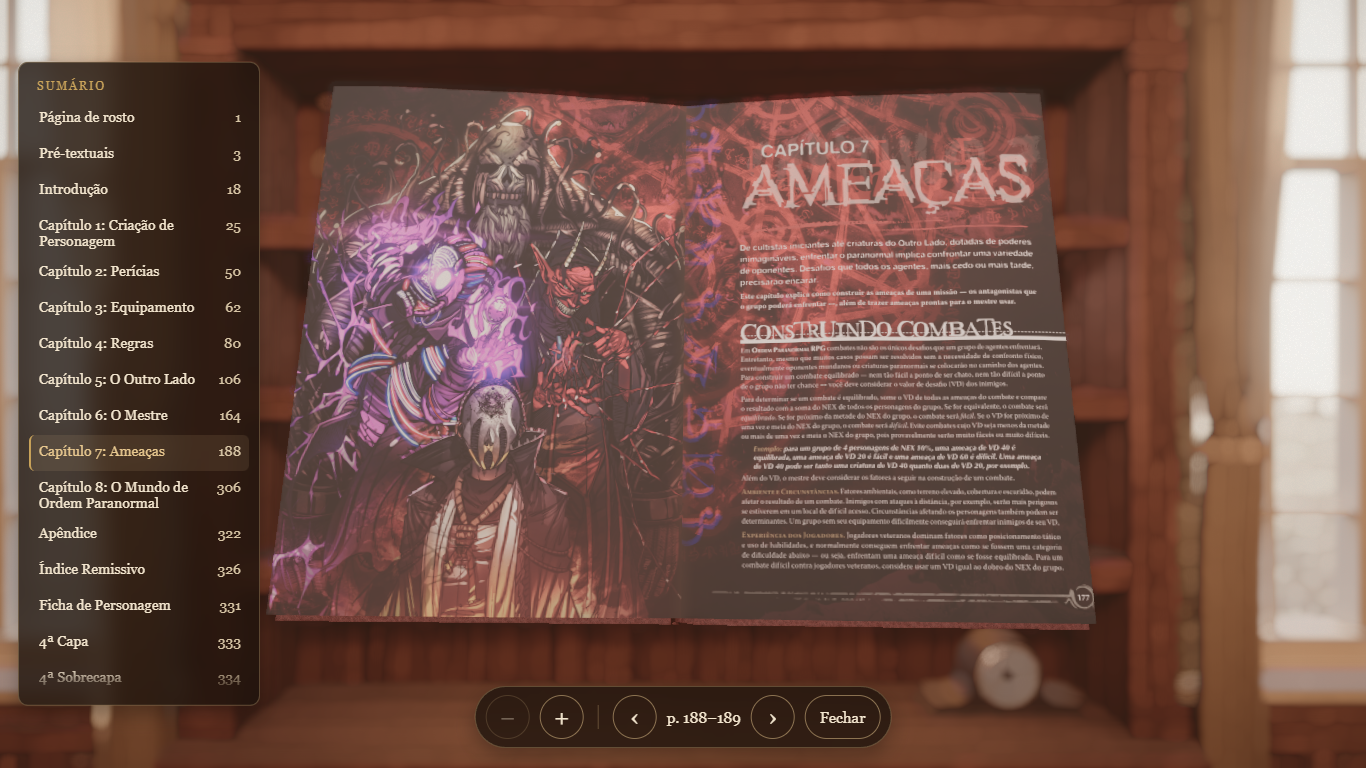
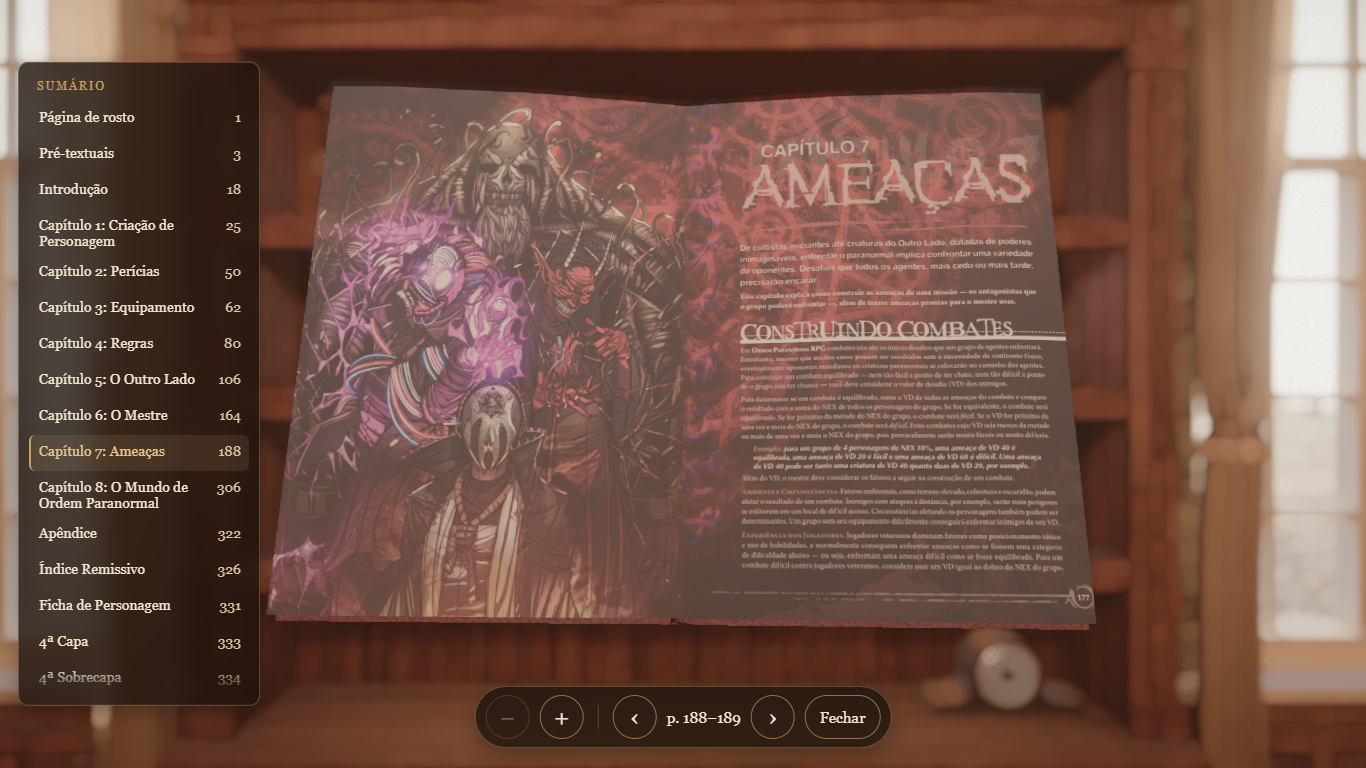
N3: um passo mais perto da estante; fac-símile diagramado impresso como tinta
- Novo nó N3 depois de N2, a ~1 m da estante, na altura de olho de N0/N1
  e olhando 6° para cima. Os livros ficam ~1,7× maiores que em N2, e ali
  também se escolhem livros.
- A página diagramada vira tinta (saturação 92%, sem preto puro) e é
  impressa no papel (multiply), em vez de brilhar como uma tela.
- Títulos de OCR em caixa alta entram no sumário com só a inicial
  maiúscula.
- Revisão do art-reviewer (F1/F2) e decisões registradas.

Changed region(s): [[0.2152, 0.25, 0.3997, 0.5938], [0.5534, 0.4062, 0.7687, 0.4688]]

diff --git a/src/book/pdf/pdfPages.ts b/src/book/pdf/pdfPages.ts
@@ -1,7 +1,7 @@
 // The printed pages of a facsimile book (facsimile.ts), drawn from the open PDF when a page texture asks for
 // them: one render at a time, the most recent request first (the page being looked at), the next pages
-// after it, and a small cache. A scan's paper is brought to white so it prints on the book's paper
-// (multiply); a laid-out page is drawn as it is.
+// after it, and a small cache. Both print on the book's paper (multiply): a scan's paper is brought to
+// white first, a laid-out page's colours to ink.
 import type { PDFDocumentProxy } from 'pdfjs-dist'
 import type { Unit } from './facsimile'
 
@@ -123,17 +123,40 @@ export class PdfPages implements PdfPageSource {
       const canvas = document.createElement('canvas')
       canvas.width = Math.max(1, Math.round((u.x1 - u.x0) * scale))
       canvas.height = Math.max(1, Math.round(px))
-      const ctx = canvas.getContext('2d', { willReadFrequently: this.whiten })!
+      const ctx = canvas.getContext('2d', { willReadFrequently: true })!
       ctx.fillStyle = '#fff'
       ctx.fillRect(0, 0, canvas.width, canvas.height)
       await page.render({ canvasContext: ctx, canvas, viewport }).promise
       if (this.whiten) whitenPaper(ctx, canvas.width, canvas.height)
+      else toInk(ctx, canvas.width, canvas.height)
       return canvas
     } finally {
       // decoded scans are large: let pdf.js drop them (a later size decodes again)
       page.cleanup()
     }
   }
+}
+
+/** the darkest ink on paper (art direction: no pure black) */
+const INK_FLOOR = [22, 18, 16]
+/** colour kept from a laid-out page: printed ink is less saturated than a screen */
+const INK_SATURATION = 0.92
+
+/**
+ * A laid-out page as printed ink: a little less saturated and no deeper than ink gets, so multiplied onto the
+ * book's paper it takes the paper's tone and the room's light instead of glowing over them like a screen.
+ */
+export function toInk(ctx: CanvasRenderingContext2D, w: number, h: number) {
+  const img = ctx.getImageData(0, 0, w, h)
+  const d = img.data
+  for (let i = 0; i < d.length; i += 4) {
+    const l = 0.299 * d[i] + 0.587 * d[i + 1] + 0.114 * d[i + 2]
+    for (let k = 0; k < 3; k++) {
+      const v = l + (d[i + k] - l) * INK_SATURATION
+      d[i + k] = INK_FLOOR[k] + (v * (255 - INK_FLOOR[k])) / 255
+    }
+  }
+  ctx.putImageData(img, 0, 0)
 }
 
 /**

diff --git a/src/book/pdf/facsimile.ts b/src/book/pdf/facsimile.ts
@@ -208,7 +208,14 @@ export function headingsToc(doc: FacsimileDoc, units: Unit[]): { title: string; 
     if (mine) out.push(mine)
   })
   const norm = (s: string) => s.toLowerCase().replace(/[^\p{L}\p{N}]+/gu, ' ').trim()
-  return out.filter((e, k) => k === 0 || norm(e.title) !== norm(out[k - 1].title)).map(({ title, unit }) => ({ title, unit }))
+  return out.filter((e, k) => k === 0 || norm(e.title) !== norm(out[k - 1].title)).map(({ title, unit }) => ({ title: sentenceCase(title), unit }))
+}
+
+/** "AULA DE 7 DE JANEIRO DE 1976" → "Aula de 7 de janeiro de 1976" (titles in capitals read as shouting in the contents) */
+export function sentenceCase(title: string) {
+  if (upperShare(title) < 0.7) return title
+  const lower = title.toLocaleLowerCase('pt-BR')
+  return lower.replace(/\p{L}/u, (c) => c.toLocaleUpperCase('pt-BR'))
 }
 
 /** a laid-out page this close to the book's proportions is cropped to fill it (full bleed); further off, it fits inside */
@@ -233,7 +240,8 @@ export function paginateFacsimile(doc: FacsimileDoc, meta: BookMeta, aspect: num
     if (doc.mode === 'designed') {
       const fill = Math.abs(cw / ch / W - 1) <= BLEED_MISMATCH
       const s = fill ? Math.max(W / cw, 1 / ch) : Math.min(W / cw, 1 / ch)
-      item = { kind: 'pdfpage', unit: i, x: (W - cw * s) / 2, y: (1 - ch * s) / 2, w: cw * s, h: ch * s, blend: 'normal' }
+      // printed too (pdfPages.ts takes its colours to ink): the paper and the room's light show through
+      item = { kind: 'pdfpage', unit: i, x: (W - cw * s) / 2, y: (1 - ch * s) / 2, w: cw * s, h: ch * s, blend: 'multiply' }
     } else {
       // inside the page with book margins, the wider one at the binding
       const recto = page % 2 === 1

diff --git a/e2e/navigation.spec.ts b/e2e/navigation.spec.ts
@@ -35,6 +35,26 @@ test('avança N0 → N1 → N2 e volta para N1', async ({ page }, testInfo) => {
   expect(await page.evaluate(() => window.__NAV__?.currentNode)).toBe('N1')
 })
 
+test('na estante, um passo a mais aproxima (N3) e ali também se escolhe um livro', async ({ page }, testInfo) => {
+  await page.goto('/?e2e=1&node=N2')
+  await page.waitForFunction(() => window.__SCENE_READY__ === true && (window.__SEL__?.order.length ?? 0) > 0, undefined, { timeout: 90_000 })
+  await page.getByRole('button', { name: 'Avançar' }).click()
+  await waitIdle(page)
+  expect(await page.evaluate(() => window.__NAV__?.currentNode)).toBe('N3')
+  // the end of the path: only back
+  await expect(page.getByRole('button', { name: 'Avançar' })).toHaveCount(0)
+  await expect(page.getByRole('button', { name: 'Novo livro' })).toBeVisible()
+  await page.screenshot({ path: testInfo.outputPath('N3.png') })
+  const first = await page.evaluate(() => window.__SEL__!.order[0])
+  await page.evaluate((id) => window.__SEL__!.select(id), first)
+  await page.waitForFunction(() => window.__SEL__!.phase === 'hand')
+  await page.keyboard.press('Escape')
+  await page.waitForFunction(() => window.__SEL__!.selected === null)
+  await page.getByRole('button', { name: 'Voltar' }).click()
+  await waitIdle(page)
+  expect(await page.evaluate(() => window.__NAV__?.currentNode)).toBe('N2')
+})
+
 test('__NAV__ só existe com ?e2e=1', async ({ page }) => {
   await page.goto('/')
   await page.waitForFunction(() => window.__SCENE_READY__ === true, undefined, { timeout: 90_000 })

diff --git a/src/book/useSelection.ts b/src/book/useSelection.ts
@@ -2,8 +2,9 @@ import { create } from 'zustand'
 import { params } from '../app/params'
 import { useNavigation } from '../navigation/useNavigation'
 
-/** Node where the books can be selected (spec Fase 3). */
-export const SELECTION_NODE = 'N2'
+/** Nodes where the books can be selected (spec Fase 3): the front of the bookcase and the step closer. */
+export const SELECTION_NODES: readonly string[] = ['N2', 'N3']
+export const isSelectionNode = (id: string) => SELECTION_NODES.includes(id)
 
 interface SelectionState {
   /** ids in shelf order (left → right, top shelf first) */
@@ -48,7 +49,7 @@ export const readFocus = { distance: 0.4 }
 
 const canSelect = () => {
   const nav = useNavigation.getState()
-  return nav.currentNode === SELECTION_NODE && !nav.isTransitioning
+  return isSelectionNode(nav.currentNode) && !nav.isTransitioning
 }
 
 export const useSelection = create<SelectionState>((set, get) => ({
@@ -113,9 +114,9 @@ export const useSelection = create<SelectionState>((set, get) => ({
   },
 }))
 
-/** Leaving the bookcase node drops the keyboard focus. */
+/** Leaving the bookcase drops the keyboard focus. */
 useNavigation.subscribe((s, prev) => {
-  if (s.currentNode !== prev.currentNode && s.currentNode !== SELECTION_NODE) {
+  if (s.currentNode !== prev.currentNode && !isSelectionNode(s.currentNode)) {
     useSelection.setState({ focused: null, hovered: null })
   }
 })

diff --git a/src/book/pdf/facsimile.test.ts b/src/book/pdf/facsimile.test.ts
@@ -78,9 +78,9 @@ describe('fac-símile escaneado', () => {
 
   it('sem sumário no PDF, os títulos em caixa alta viram o sumário (cabeço não conta)', () => {
     const units = facsimileUnits(doc)
-    expect(headingsToc(doc, units)).toEqual([{ title: 'AULA DE 7 DE JANEIRO DE 1976', unit: 4 }])
+    expect(headingsToc(doc, units)).toEqual([{ title: 'Aula de 7 de janeiro de 1976', unit: 4 }])
     const layout = paginateFacsimile(doc, { title: 'Em defesa da sociedade' }, 0.7)
-    expect(layout.toc.map((e) => e.title)).toEqual(['Página de rosto', 'AULA DE 7 DE JANEIRO DE 1976', 'Última página'])
+    expect(layout.toc.map((e) => e.title)).toEqual(['Página de rosto', 'Aula de 7 de janeiro de 1976', 'Última página'])
   })
 
   it('linha de texto que o OCR leu maior não vira título', () => {
@@ -108,7 +108,7 @@ describe('fac-símile diagramado', () => {
     const it0 = layout.pages[2].items[0]
     expect(it0.kind).toBe('pdfpage')
     if (it0.kind !== 'pdfpage') return
-    expect(it0.blend).toBe('normal')
+    expect(it0.blend).toBe('multiply')
     // covers the page: as tall as the page or taller, as wide or wider
     expect(it0.h).toBeGreaterThanOrEqual(1 - 1e-9)
     expect(it0.w).toBeGreaterThanOrEqual(0.73 - 1e-9)

diff --git a/src/ui/LibraryUI.tsx b/src/ui/LibraryUI.tsx
@@ -1,6 +1,6 @@
 import { useCallback, useEffect, useState } from 'react'
 import { params } from '../app/params'
-import { SELECTION_NODE, useSelection } from '../book/useSelection'
+import { isSelectionNode, useSelection } from '../book/useSelection'
 import { useAccount } from '../data/cloud'
 import { useNavigation } from '../navigation/useNavigation'
 import { AccountUI, SignInFirst } from './AccountUI'
@@ -13,7 +13,7 @@ import './ui.css'
  * anywhere starts a new book with it, and the account (top right) when the cloud is on.
  */
 export function LibraryUI() {
-  const atShelf = useNavigation((s) => s.currentNode === SELECTION_NODE && !s.isTransitioning)
+  const atShelf = useNavigation((s) => isSelectionNode(s.currentNode) && !s.isTransitioning)
   const selected = useSelection((s) => s.selected)
   const formOpen = useCreator((s) => s.mode !== null)
   const openNew = useCreator((s) => s.openNew)

diff --git a/src/book/SelectionPanel.tsx b/src/book/SelectionPanel.tsx
@@ -8,7 +8,7 @@ import { MAX_ZOOM, useReadingZoom } from './reader/readingZoom'
 import { currentSpread, useReader } from './reader/useReader'
 import { shelfBooks } from './shelfData'
 import { SPINE_COLOR_LABELS } from './palette'
-import { SELECTION_NODE, useSelection } from './useSelection'
+import { isSelectionNode, useSelection } from './useSelection'
 import '../ui/ui.css'
 import './selection.css'
 
@@ -54,7 +54,7 @@ function useSelectionKeys() {
         }
         return
       }
-      if (nav.currentNode !== SELECTION_NODE || nav.isTransitioning) return
+      if (!isSelectionNode(nav.currentNode) || nav.isTransitioning) return
       if (e.key === 'ArrowLeft' || e.key === 'ArrowRight') {
         e.preventDefault()
         e.stopImmediatePropagation()

diff --git a/src/book/reader/pageContent.ts b/src/book/reader/pageContent.ts
@@ -155,7 +155,7 @@ function drawPlan(ctx: CanvasRenderingContext2D, book: PageBook, layout: BookLay
         continue
       }
       ctx.save()
-      // a scan prints on the paper (its paper is white); a laid-out page covers it
+      // printed on the paper: a scan's paper is white, a laid-out page's colours are ink (pdf/pdfPages.ts)
       if (it.blend === 'multiply') ctx.globalCompositeOperation = 'multiply'
       ctx.imageSmoothingQuality = 'high'
       ctx.drawImage(img, it.x * H, it.y * H, it.w * H, it.h * H)

diff --git a/src/navigation/useNavigation.ts b/src/navigation/useNavigation.ts
@@ -11,8 +11,8 @@ const TRANSITION_S = 1.4
 const REDUCED_MOTION_S = 0.9
 /** Orientation is only tweened back to the node default when the user looks this far away. */
 const REORIENT_THRESHOLD = 60
-/** The bookcase node always faces the bookcase on arrival (spec Fase 1). */
-const FACE_ON_ARRIVAL: NodeId[] = ['N2']
+/** The bookcase nodes always face the bookcase on arrival (spec Fase 1). */
+const FACE_ON_ARRIVAL: NodeId[] = ['N2', 'N3']
 
 interface NavigationState {
   currentNode: NodeId

diff --git a/docs/decisoes.md b/docs/decisoes.md
@@ -384,3 +384,49 @@ Formato de cada entrada:
 - Alternativa: guardar o nível na conta (Supabase). Descartada porque o nível depende do aparelho, não da pessoa.
 - Como reverter: tirar `FullscreenButton`, `SettingsButton` e `SettingsPanel` de `AccountUI.tsx`. O modo automático continua sozinho.
 - Precisa do usuário? não.
+
+## 2026-10-18 — PDF: fac-símile para escaneamentos e livros diagramados
+- Contexto: depois do lançamento, o usuário mandou dois PDFs de referência que o projeto tem que tratar bem.
+  - "Em defesa da sociedade" é um livro escaneado: duas páginas por folha do PDF e uma camada de OCR sem acentos ("nao", "urn", "0" no lugar de "o", "," no lugar de "ç"). Recomposto, o texto ficava ilegível.
+  - O livro de regras de "Ordem Paranormal" (332 páginas, 179 MB) é um livro já diagramado: colunas, tabelas, fichas, arte de página inteira e fundo texturizado. Recomposto, virava 1360 páginas com capítulos falsos e sem as tabelas, e lia 350 imagens para a memória (15 s).
+- Escolha: o analisador classifica o PDF por uma amostra de até 12 páginas (`src/book/pdf/facsimile.ts`, `classifyPages`):
+  - **rediagramar** (como antes): texto corrido, mesmo com alguns desenhos;
+  - **escaneado** (a maioria das páginas é uma imagem, sem texto ou com OCR invisível): fac-símile.
+    - Cada folha dupla vira duas páginas, divididas no vão do texto.
+    - Cada página é recortada no tamanho da mancha impressa: o mesmo tamanho para todas, logo uma escala só, e as bordas do scanner ficam de fora.
+    - O papel do escaneamento vai para o branco e a imagem é impressa no papel do livro (multiply).
+    - A página esquerda da folha dupla cai numa página par do livro.
+  - **diagramado** (imagens cobrindo boa parte das páginas, ou arte sob texto visível): fac-símile página a página, sangrando quando a proporção é parecida com a do livro. As cores viram tinta: saturação a 92% e preto no máximo `#161210`. A página é impressa no papel (multiply). Sem isso, o `art-reviewer` viu "tela de tablet sobre o livro".
+  - O sumário vem do outline do PDF. Sem outline, vem dos títulos achados no texto: linhas maiores que o corpo, curtas, em caixa alta, o maior por página. Títulos em caixa alta entram com só a inicial maiúscula ("Aula de 7 de janeiro de 1976").
+  - As páginas do fac-símile são desenhadas sob demanda a partir do PDF aberto (`src/book/pdf/pdfPages.ts`):
+    - uma por vez, o pedido mais recente primeiro, e as duas seguintes adiantadas;
+    - cache de 10;
+    - a textura da página espera em branco e é redesenhada quando a página chega.
+  - Os decodificadores wasm do pdf.js (JBIG2, JPEG 2000, ICC) são servidos em `/pdfjs-wasm/` (plugin no `vite.config.ts`).
+  - A leitura do PDF fica guardada por livro: salvar o formulário com o título final não relê o arquivo.
+- Medido no app (notebook 1366×768, viewport do Playwright):
+  - RPG: 332 páginas viram 334 no livro, lidas em ~5 s (antes 15 s e ~350 imagens decodificadas);
+  - Foucault: 199 folhas viram 400 páginas, lidas em ~3 s;
+  - a página aparece ~0,1–0,3 s depois de virar.
+- Alternativas:
+  - corrigir o OCR com regras (urn→um, 0→o, ,→ç): não devolve os acentos perdidos;
+  - recompor o livro diagramado: perde tabelas, fichas e arte;
+  - rasterizar todas as páginas na leitura: memória e tempo (o que o fac-símile sob demanda evita).
+- Contradiz em parte o CLAUDE.md ("conteúdo rediagramado na identidade visual"). O rediagramar continua para texto corrido; quando o PDF já é um livro (escaneado ou diagramado), ele é impresso como é, no papel, na luz e na encadernação da sala.
+- Como reverter: `classifyPages` devolvendo sempre `'reflow'` volta ao comportamento anterior.
+- Ferramenta: `npm run pdf:probe -- <arquivo.pdf> [--src 1-6] [--book 1-12] [--lines 9]` roda o pipeline real no Chromium e grava, em `shots/pdf-probe/`, as páginas originais, as compostas e o sumário.
+- Limite conhecido: logado (nuvem), o plano grátis do Supabase aceita PDFs de até 50 MB. O RPG (179 MB) só entra no modo local.
+- Precisa do usuário? sim: testar os dois PDFs e aprovar o resultado.
+
+## 2026-10-18 — N3: um passo mais perto da estante
+- Contexto: no notebook, a namorada do usuário achou os livros longe em N2 (a 1,6 m da estante, a estante inteira no quadro). O usuário sugeriu um passo de zoom na prateleira.
+- Escolha: nó N3 na `config/room.json`, aresta N2–N3.
+  - Posição: ~1 m da frente da estante, na altura de olho de N0 e N1 (1,62 m), olhando 6° para cima, FOV 46.
+  - As três prateleiras de cima (onde os livros começam) enchem a tela, e os livros ficam ~1,7× maiores que em N2. A de baixo fica a um olhar para baixo.
+  - O `art-reviewer` sugeriu deslocar a lente (`lensShiftY`) em vez de inclinar a câmera, para manter as verticais paralelas. Ficou a inclinação de 6°: a pose do livro na mão e a de leitura são calculadas no eixo da câmera, e com o deslocamento o livro sairia do centro da tela.
+  - Em N3 também se escolhem livros e aparece "Novo livro" (`SELECTION_NODES` em `useSelection.ts`).
+  - A seta "Avançar" em N2 leva a N3, e ↑ também.
+  - A câmera se vira para a estante ao chegar, como em N2.
+- Alternativa: aproximar só pelo FOV (a roda já faz isso, de 70° a 40°): sem o passo, é menos descoberto no trackpad e não dá a sensação de chegar perto.
+- Como reverter: tirar N3 e a aresta da `config/room.json`.
+- Precisa do usuário? sim: aprovar o enquadramento no notebook.

diff --git a/docs/look-dev/iteracoes.md b/docs/look-dev/iteracoes.md
@@ -190,3 +190,33 @@ Cada entrada: data/hora, o que mudou, notas por critério (art-reviewer), diverg
   - sumário até 80% da altura.
 - O papel mais frio que no shot antigo do N2 vem do ajuste de luz dos livros da Fase 6, já aprovado.
 - Shots: `shots/leitura/notebook_aberto.png`, `notebook_zoom.png`, `monitor_aberto.png`.
+
+## PDF em fac-símile e N3 (pedido do usuário, 18/10)
+
+### F1
+- O que mudou:
+  - PDFs escaneados e diagramados viram fac-símile, impresso no papel do livro;
+  - nó N3, um passo mais perto da estante (1,05 → 1,15 m da frente, olhando 4° para cima).
+- **art-reviewer:** "iterar" nos três pontos. O escaneado está perto do aprovado; o diagramado parece tela sobre o livro; N3 dá só 1,4× e a câmera fica alta.
+- Pontos levantados:
+  - fólio impresso ≠ contador do app;
+  - lixo de OCR no sumário;
+  - linhas tortas e pontinhos de poeira do scanner;
+  - margem de cima apertada no escaneado;
+  - veio da estante saturado de perto, e uma mancha escura no fundo do primeiro compartimento (bake?).
+
+### F2
+- O que mudou:
+  - diagramado como tinta (saturação 92%, preto `#161210`), impresso em multiply: pega o tom do papel e a luz da sala;
+  - sumário de OCR com só a inicial maiúscula;
+  - N3 a ~1 m, olho a 1,62 m, 6° para cima, FOV 46: livros ~1,7× maiores que em N2.
+- Ainda divergem, para próximas iterações:
+  - fólio impresso × contador;
+  - linhas tortas e poeira do scanner;
+  - entradas de editora no sumário de OCR ("Martins Fontes");
+  - veio e mancha da estante vistos de perto.
+- Shots:
+  - `shots/latest/N3.png`;
+  - `shots/latest/N2_facsimile_scan.png`, `N2_facsimile_scan_chapter.png`;
+  - `shots/latest/N2_facsimile_designed.png` (RPG, Ameaças);
+  - `shots/latest/N2_facsimile_designed_text.png` (RPG, Perícias).

diff --git a/docs/specs/fase-1-navegacao.md b/docs/specs/fase-1-navegacao.md
@@ -12,6 +12,7 @@ Não altera o visual da sala, por isso pode ser desenvolvida em paralelo ao look
 - **Movimento reduzido:** com `prefers-reduced-motion`, a caminhada continua (o usuário pediu "andar até o ponto"), mais curta (0,9 s) e sem girar a câmera. (Antes: fade de 0,3 s — lia como teletransporte.)
 - **Evolução registrada (pedido do usuário, 15/10):** caminhada mais "física" entre os nós — leve balanço de passo opcional, desaceleração natural e, no futuro, parar em pontos intermediários do trajeto (clicar no piso entre dois nós). Momento: depois da Fase 4, junto com a revisão de UX da Fase 6.
 - **N2:** ao chegar, a câmera se orienta para a estante (yaw do nó) — é o ponto de interação com os livros (Fase 3).
+- **N3** (18/10/2026): um passo mais perto da estante, depois de N2. As prateleiras de cima enchem a tela, e ali também se escolhem livros. A câmera se orienta para a estante ao chegar.
 - **URL:** `?node=N1&yaw=10&pitch=-5&fov=55` define o estado inicial (usado pelo `npm run shot`). O estado atual **não** é escrito na URL a cada movimento.
 
 ## Código
